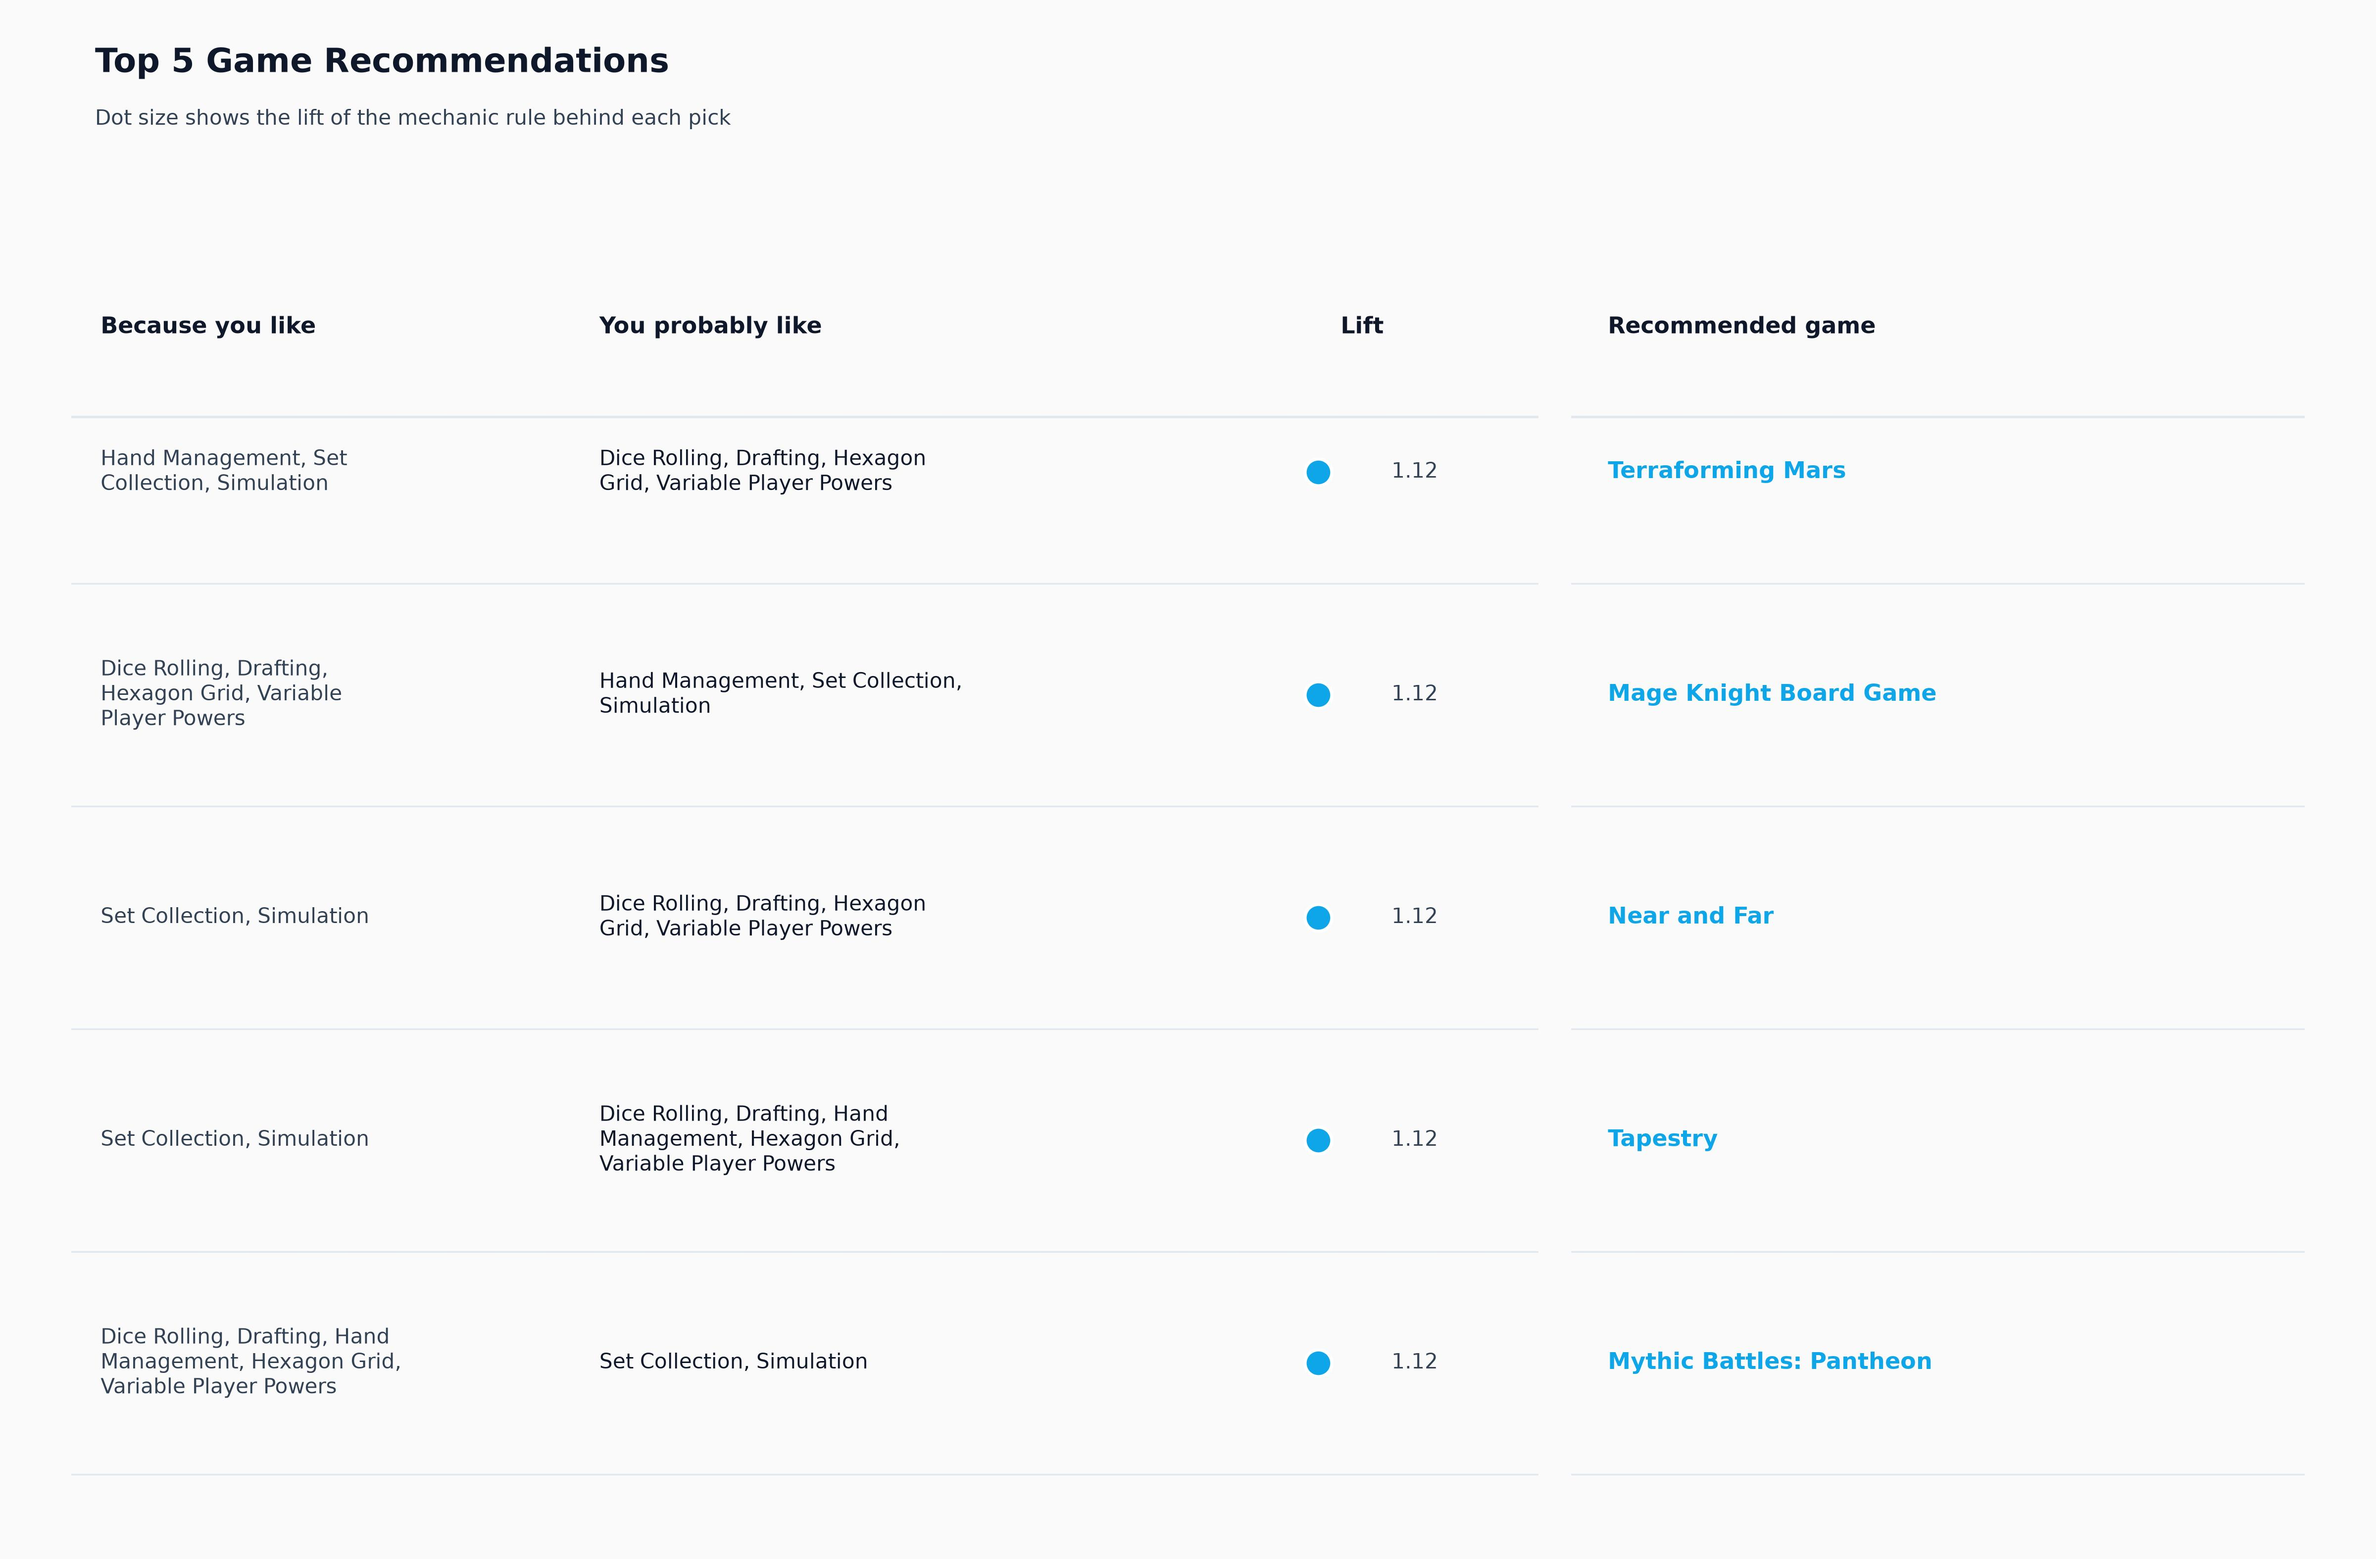
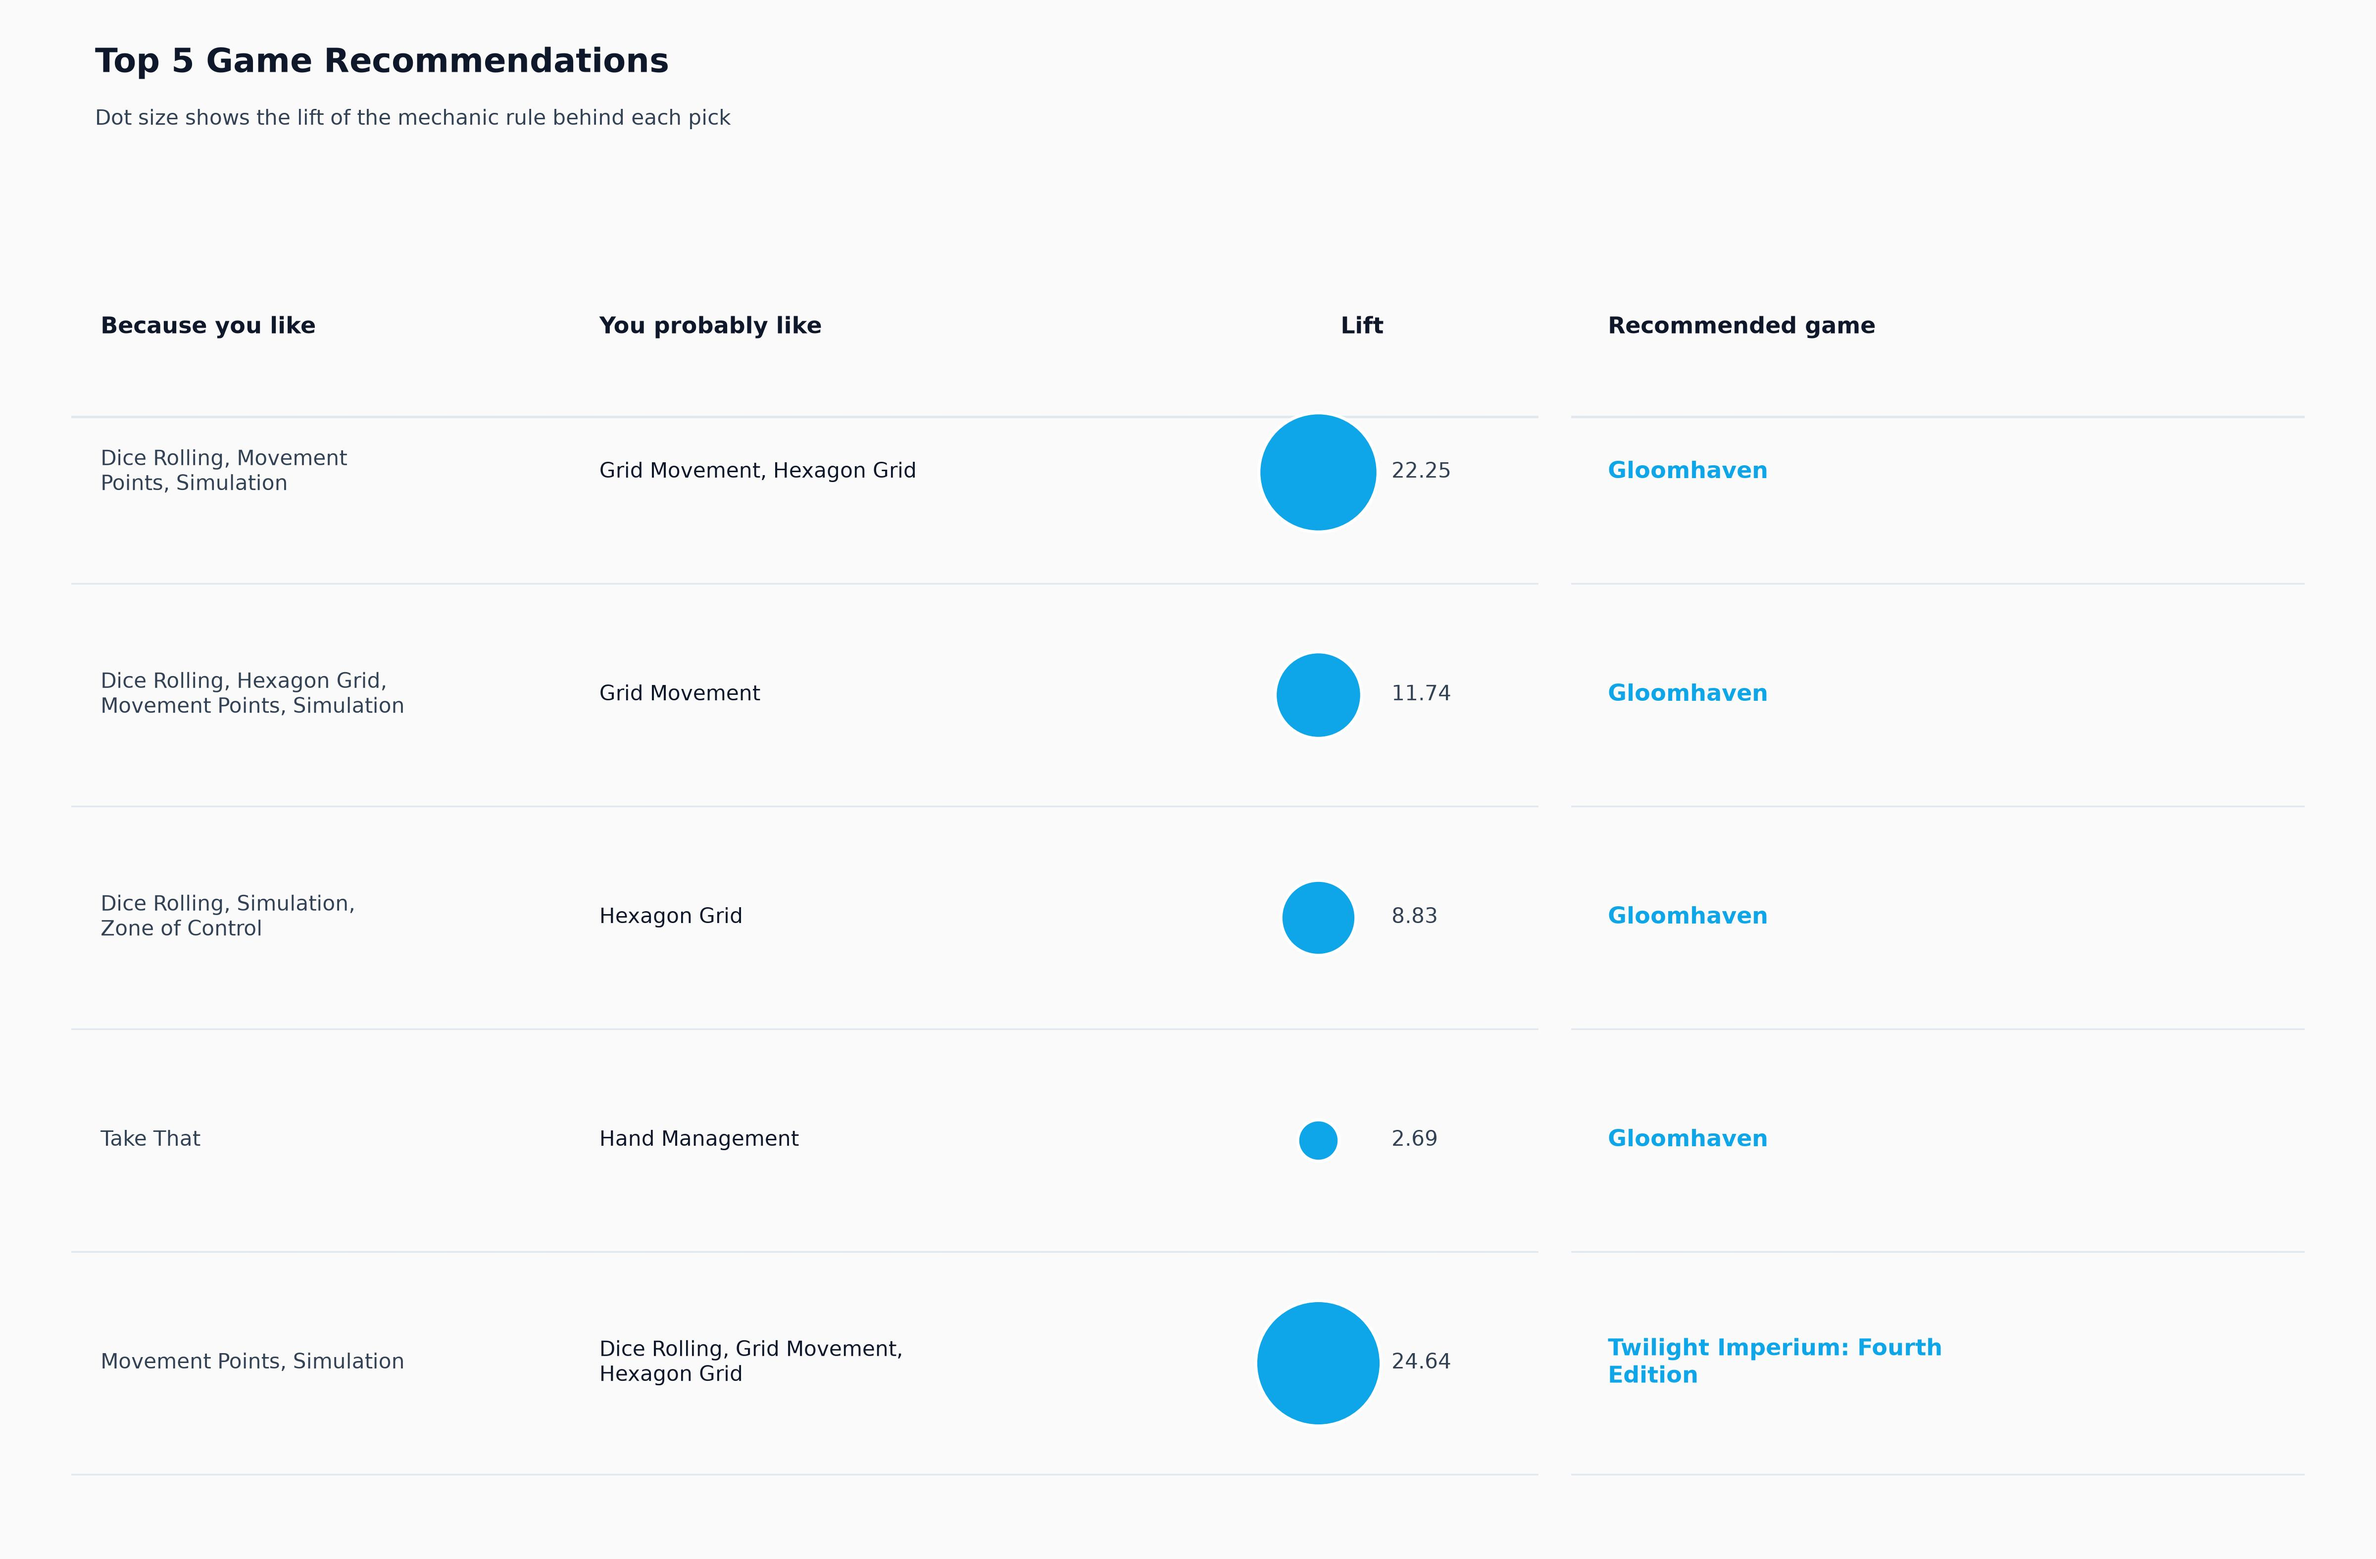
Changes to reccommend and display

diff --git a/scripts/association_rule_mining_mechanics.py b/scripts/association_rule_mining_mechanics.py
@@ -1,89 +1,70 @@
 import pandas as pd
 from pathlib import Path
+from mlxtend.frequent_patterns import apriori, association_rules
 
-MIN_NUM_RATINGS = 500   # ignore obscure games
-TOP_RULES = 5           # one recommendation per top-lift rule
+MIN_SUPPORT = 0.01
+MIN_CONFIDENCE = 0.50
+MAX_ITEMSET_LENGTH = 10
 
 PROJECT_ROOT = Path(__file__).resolve().parent.parent
 RAW_DIR = PROJECT_ROOT / "data" / "raw"
 OUTPUT_DIR = PROJECT_ROOT / "outputs"
-
-rules = pd.read_csv(OUTPUT_DIR / "association_rules_mechanics.csv")
-rules = rules.sort_values("lift", ascending=False).reset_index(drop=True)
+OUTPUT_DIR.mkdir(parents=True, exist_ok=True)
 
 mechanics = pd.read_csv(RAW_DIR / "mechanics.csv")
-games = pd.read_csv(
-    RAW_DIR / "games.csv",
-    usecols=["BGGId", "Name", "BayesAvgRating", "NumUserRatings"]
-)
+
+print("========================================")
+print("MECHANICS ASSOCIATION RULE MINING")
+print("========================================")
+print(f"Games: {len(mechanics):,}")
 
 mech_cols = [c for c in mechanics.columns if c != "BGGId"]
-mechanics[mech_cols] = mechanics[mech_cols].astype(bool)
-mech_set = set(mech_cols)
+transactions = mechanics[mech_cols].astype(bool)
 
-games = games[games["NumUserRatings"] >= MIN_NUM_RATINGS]
-merged = games.merge(mechanics, on="BGGId").reset_index(drop=True)
+print("\n--- RUNNING APRIORI ---")
+frequent_itemsets = apriori(
+    transactions,
+    min_support=MIN_SUPPORT,
+    use_colnames=True,
+    max_len=MAX_ITEMSET_LENGTH,
+    low_memory=True,
+)
 
-def parse(names):
-    # Rebuild mechanic names from the comma-joined string,
-    # since some names contain commas themselves
-    tokens = names.split(", ")
-    result, i = [], 0
-    while i < len(tokens):
-        for j in range(len(tokens), i, -1):
-            candidate = ", ".join(tokens[i:j])
-            if candidate in mech_set:
-                result.append(candidate)
-                i = j
-                break
-        else:
-            result.append(tokens[i])
-            i += 1
-    return result
+if frequent_itemsets.empty:
+    raise SystemExit("No frequent itemsets found.")
 
-rows = []
-picked_games = set()
+frequent_itemsets["length"] = frequent_itemsets["itemsets"].apply(len)
+frequent_itemsets = frequent_itemsets.sort_values("support", ascending=False)
 
-for _, rule in rules.iterrows():
-    if len(rows) >= TOP_RULES:
-        break
+print(f"Frequent itemsets: {len(frequent_itemsets):,}")
 
-    antecedent = parse(rule["antecedent_names"])
-    consequent = parse(rule["consequent_names"])
-    pattern = antecedent + consequent
+print("\n--- GENERATING RULES ---")
+rules = association_rules(
+    frequent_itemsets,
+    metric="confidence",
+    min_threshold=MIN_CONFIDENCE,
+)
 
-    if not all(m in mech_set for m in pattern):
-        continue
+rules = rules[rules["lift"] > 1].sort_values(["lift", "confidence"], ascending=False)
 
-    # Completeness: share of the full pattern a game has, scaled by its rating
-    matched = merged[pattern].sum(axis=1)
-    completeness = matched / len(pattern)
-    score = completeness * merged["BayesAvgRating"]
+if rules.empty:
+    raise SystemExit("No association rules passed the thresholds.")
 
-    candidates = merged.assign(score=score, completeness=completeness)
-    candidates = candidates[candidates["completeness"] > 0]
-    candidates = candidates.sort_values(["score", "BayesAvgRating"], ascending=False)
+print(f"Association rules: {len(rules):,}")
 
-    # Skip games already recommended by a higher-lift rule
-    best = candidates[~candidates["Name"].isin(picked_games)].head(1)
-    if best.empty:
-        continue
+rules_output = rules[["antecedents", "consequents", "support", "confidence", "lift"]].copy()
+rules_output["antecedent_names"] = rules_output["antecedents"].apply(lambda itemset: ", ".join(sorted(itemset)))
+rules_output["consequent_names"] = rules_output["consequents"].apply(lambda itemset: ", ".join(sorted(itemset)))
+rules_output = rules_output[["antecedent_names", "consequent_names", "support", "confidence", "lift"]]
 
-    g = best.iloc[0]
-    picked_games.add(g["Name"])
+itemsets_output = frequent_itemsets[["itemsets", "support", "length"]].copy()
+itemsets_output["mechanic_names"] = itemsets_output["itemsets"].apply(lambda itemset: ", ".join(sorted(itemset)))
+itemsets_output = itemsets_output[["mechanic_names", "support", "length"]]
 
-    rows.append({
-        "if_you_like": ", ".join(antecedent),
-        "recommended_mechanics": ", ".join(consequent),
-        "game": g["Name"],
-        "bayes_rating": round(g["BayesAvgRating"], 2),
-        "lift": round(rule["lift"], 2),
-        "mechanic_match": f"{int(g['completeness'] * len(pattern))}/{len(pattern)}",
-        "score": round(g["score"], 2),
-    })
+rules_output.to_csv(OUTPUT_DIR / "association_rules_mechanics.csv", index=False)
+itemsets_output.to_csv(OUTPUT_DIR / "frequent_itemsets_mechanics.csv", index=False)
 
-recs = pd.DataFrame(rows)
-recs.to_csv(OUTPUT_DIR / "game_recommendations.csv", index=False)
-
-print(recs.to_string(index=False))
-print(f"\nSaved: {OUTPUT_DIR / 'game_recommendations.csv'}")
+print("\n--- TOP RULES ---")
+print(rules_output.head(30).to_string(index=False))
+print(f"\nSaved: {OUTPUT_DIR / 'association_rules_mechanics.csv'}")
+print(f"Saved: {OUTPUT_DIR / 'frequent_itemsets_mechanics.csv'}")

diff --git a/data/raw/display_mech.py b/data/raw/display_mech.py
@@ -4,27 +4,76 @@ from pathlib import Path
 
 TOP_N = 10
 
-PROJECT_ROOT = Path(__file__).resolve().parent.parent
-RAW_DIR = PROJECT_ROOT / "raw"
+PROJECT_ROOT = Path(__file__).resolve().parent.parent.parent
+RAW_DIR = PROJECT_ROOT / "data" / "raw"
+OUTPUT_DIR = PROJECT_ROOT / "outputs"
 PLOT_DIR = PROJECT_ROOT / "plots"
 PLOT_DIR.mkdir(parents=True, exist_ok=True)
 
-mechanics = pd.read_csv(RAW_DIR / "mechanics.csv")
+rules = pd.read_csv(OUTPUT_DIR / "association_rules_mechanics.csv")
 
-# Number of games per mechanic, keep only the top 10
-games_per_mechanic = mechanics.drop("BGGId", axis=1).sum()
-top_counts = games_per_mechanic.sort_values(ascending=False).head(TOP_N)
+top = rules.sort_values("lift", ascending=False).head(TOP_N).reset_index(drop=True)
+top["id"] = top.index + 1
+top["rule"] = top["antecedent_names"] + " -> " + top["consequent_names"]
 
-plt.figure(figsize=(12, 7))
-plt.bar(top_counts.index, top_counts.values, color="steelblue", edgecolor="black")
-plt.title(f"Top {TOP_N} Mechanics by Number of Games")
-plt.xlabel("Mechanic")
-plt.ylabel("Number of games")
-plt.xticks(rotation=45, ha="right")
-plt.grid(axis="y", linestyle="--", alpha=0.6)
+fig, (ax, tax) = plt.subplots(
+	1,
+	2,
+	figsize=(16, 7),
+	gridspec_kw={"width_ratios": [1.3, 1]},
+)
+
+lift_min = top["lift"].min()
+lift_span = max(top["lift"].max() - lift_min, 1e-9)
+sizes = 140 + 860 * ((top["lift"] - lift_min) / lift_span) ** 1.5
+
+sc = ax.scatter(
+	top["support"],
+	top["confidence"],
+	s=sizes,
+	c=top["lift"],
+	cmap="viridis",
+	alpha=0.7,
+	edgecolor="black",
+	linewidths=0.8,
+)
+
+# Number each dot so the labels stay clear even when dots are close
+for r in top.itertuples():
+	ax.annotate(
+		str(r.id),
+		(r.support, r.confidence),
+		ha="center",
+		va="center",
+		fontsize=9,
+		fontweight="bold",
+	)
+
+fig.colorbar(sc, ax=ax, label="Lift")
+ax.set_xlabel("Support")
+ax.set_ylabel("Confidence")
+ax.set_title(f"Top {TOP_N} Mechanics Association Rules (dot size = lift)")
+ax.grid(alpha=0.3)
+
+# Rule legend on the right
+tax.axis("off")
+legend_lines = [
+	f"{r.id}. {r.rule}\n    lift {r.lift:.2f} | support {r.support:.3f} | confidence {r.confidence:.2f}"
+	for r in top.itertuples()
+]
+tax.text(
+	0,
+	1,
+	"Top mechanics rules\n\n" + "\n\n".join(legend_lines),
+	va="top",
+	fontsize=9,
+	family="monospace",
+)
+
 plt.tight_layout()
-plt.savefig(PLOT_DIR / "top10_mechanics_bar.jpg", dpi=300)
+output_file = PLOT_DIR / "top10_mechanics_rules_grid.jpg"
+plt.savefig(output_file, dpi=300, bbox_inches="tight")
 plt.close()
 
-print(top_counts.to_string())
-print(f"\nSaved: {PLOT_DIR / 'top10_mechanics_bar.jpg'}")
+print(top[["antecedent_names", "consequent_names", "support", "confidence", "lift"]].to_string(index=False))
+print(f"\nSaved: {output_file}")

diff --git a/scripts/reccommend.py b/scripts/reccommend.py
@@ -2,13 +2,13 @@ import pandas as pd
 from pathlib import Path
 
 MIN_NUM_RATINGS = 500   # ignore obscure games with few ratings
-TOP_GAMES = 5           # games recommended per rule
 
 PROJECT_ROOT = Path(__file__).resolve().parent.parent
 RAW_DIR = PROJECT_ROOT / "data" / "raw"
 OUTPUT_DIR = PROJECT_ROOT / "outputs"
 
 rules = pd.read_csv(OUTPUT_DIR / "association_rules_mechanics.csv")
+rules = rules.sort_values("lift", ascending=False).reset_index(drop=True)
 mechanics = pd.read_csv(RAW_DIR / "mechanics.csv")
 games = pd.read_csv(
     RAW_DIR / "games.csv",
@@ -40,6 +40,8 @@ def parse(names):
     return result
 
 rows = []
+seen_recommendations = set()
+
 for _, rule in rules.iterrows():
     antecedent = parse(rule["antecedent_names"])
     consequent = parse(rule["consequent_names"])
@@ -47,20 +49,30 @@ for _, rule in rules.iterrows():
     if not all(m in mech_set for m in consequent):
         continue
 
-    # Games that have every consequent mechanic
+    recommendation_key = ", ".join(consequent)
+
+    if recommendation_key in seen_recommendations:
+        continue
+
+    # Keep only the best game for each unique recommendation.
     matches = merged[merged[consequent].all(axis=1)]
-    top = matches.sort_values("BayesAvgRating", ascending=False).head(TOP_GAMES)
+    best = matches.sort_values("BayesAvgRating", ascending=False).head(1)
 
-    for _, g in top.iterrows():
-        rows.append({
-            "if_you_like": ", ".join(antecedent),
-            "recommended_mechanics": ", ".join(consequent),
-            "game": g["Name"],
-            "bayes_rating": round(g["BayesAvgRating"], 2),
-            "lift": round(rule["lift"], 2),
-        })
+    if best.empty:
+        continue
 
-recs = pd.DataFrame(rows).drop_duplicates(subset=["game"], keep="first")
+    g = best.iloc[0]
+    rows.append({
+        "if_you_like": ", ".join(antecedent),
+        "recommended_mechanics": recommendation_key,
+        "game": g["Name"],
+        "bayes_rating": round(g["BayesAvgRating"], 2),
+        "lift": round(rule["lift"], 2),
+    })
+    seen_recommendations.add(recommendation_key)
+
+recs = pd.DataFrame(rows)
+recs = recs.drop_duplicates(keep="first")
 recs.to_csv(OUTPUT_DIR / "game_recommendations.csv", index=False)
 
 print(recs.to_string(index=False))

diff --git a/outputs/game_rec.py b/outputs/game_rec.py
@@ -11,7 +11,10 @@ PLOT_DIR = PROJECT_ROOT / "plots"
 PLOT_DIR.mkdir(parents=True, exist_ok=True)
 
 recs = pd.read_csv(OUTPUT_DIR / "game_recommendations.csv")
-recs = (recs.sort_values("bayes_rating", ascending=False)
+
+# Remove repeated recommendation pairs, then pick the top five by rating and lift.
+recs = recs.drop_duplicates(subset=["recommended_mechanics", "game"], keep="first")
+recs = (recs.sort_values(["bayes_rating", "lift"], ascending=False)
             .head(TOP_N)
             .reset_index(drop=True))
 
